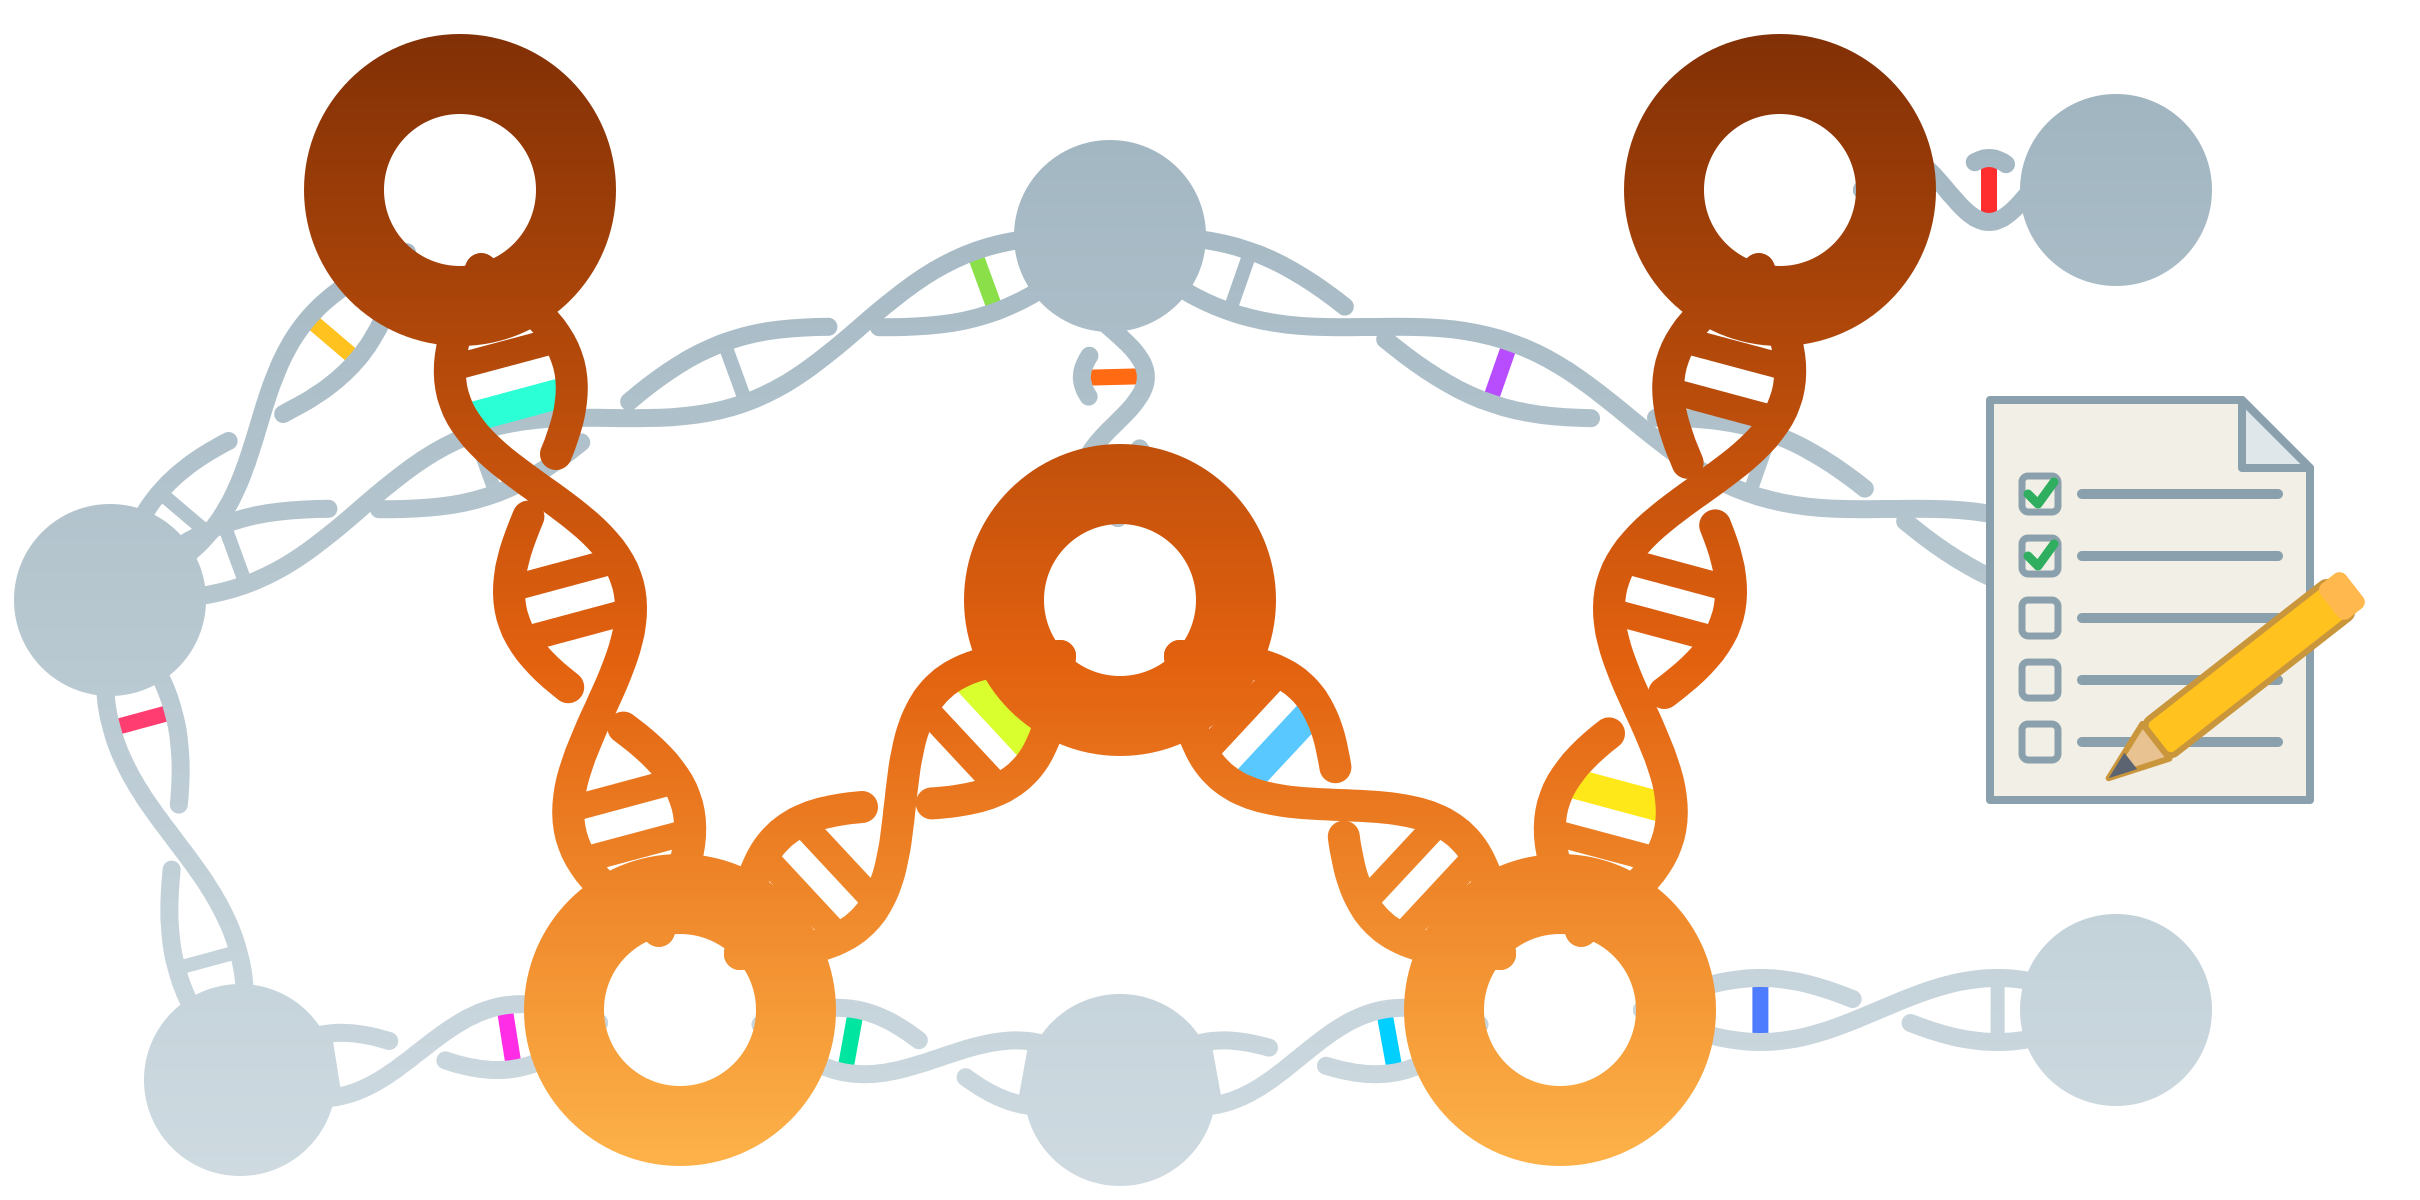
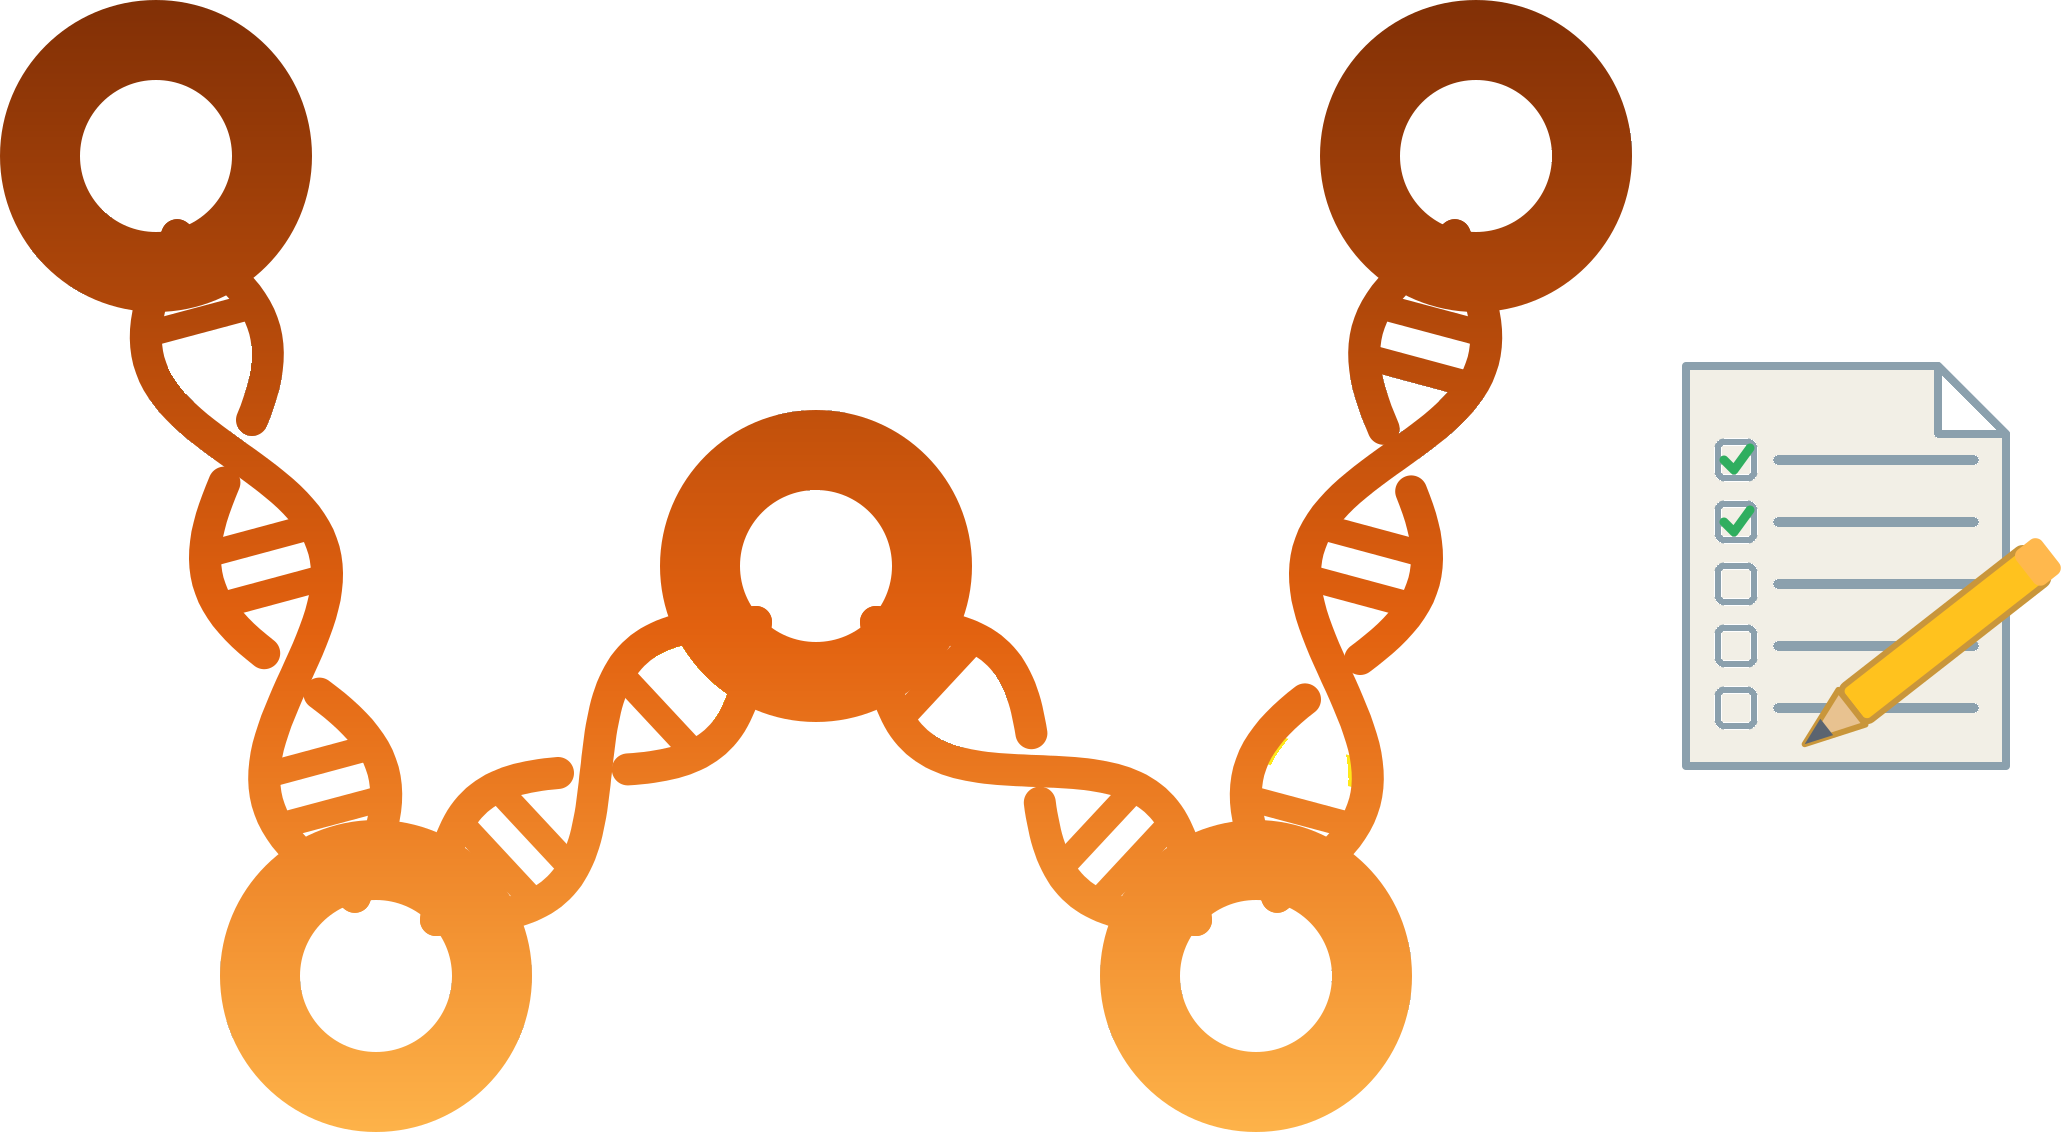
update

diff --git a/wodel-edu-eval.html b/wodel-edu-eval.html
@@ -33,7 +33,7 @@
 		gtag('config', 'UA-61793148-4');
 	</script>
     <section class="page-header">
-      <h1 class="project-name"><a href="https://gomezabajo.github.io/Wodel/wodel-edu.html" style="color: #FFFFEE;"><img src="images/wodelEdu.png" width="224" height="120"/><br />Wodel-EDU</a></h1>
+      <h1 class="project-name"><a href="https://gomezabajo.github.io/Wodel/wodel-edu.html" style="color: #FFFFEE;"><img src="images/wodelEdu.png" width="173" height="120"/><br />Wodel-EDU</a></h1>
       <h2 class="project-tagline">A Model-Driven Engineering Solution for Exercise Generation and Evaluation</h2>
       <a href="https://github.com/gomezabajo/Wodel" class="btn">View on GitHub</a>
 	  <a href="https://github.com/gomezabajo/Wodel/wiki/2.-Get-Started-with-Wodel-Edu" class="btn">Getting Started</a>

diff --git a/wodel-edu-samples.html b/wodel-edu-samples.html
@@ -33,7 +33,7 @@
 		gtag('config', 'UA-61793148-4');
 	</script>
     <section class="page-header">
-      <h1 class="project-name"><a href="https://gomezabajo.github.io/Wodel/wodel-edu.html" style="color: #FFFFEE;"><img src="images/wodelEdu.png" width="224" height="120"/><br />Wodel-EDU</a></h1>
+      <h1 class="project-name"><a href="https://gomezabajo.github.io/Wodel/wodel-edu.html" style="color: #FFFFEE;"><img src="images/wodelEdu.png" width="173" height="120"/><br />Wodel-EDU</a></h1>
       <h2 class="project-tagline">A Model-Driven Engineering Solution for Exercise Generation and Evaluation</h2>
       <a href="https://github.com/gomezabajo/Wodel" class="btn">View on GitHub</a>
 	  <a href="https://github.com/gomezabajo/Wodel/wiki/2.-Get-Started-with-Wodel-Edu" class="btn">Getting Started</a>

diff --git a/wodel-edu-sgame-eval.html b/wodel-edu-sgame-eval.html
@@ -33,7 +33,7 @@
 		gtag('config', 'UA-61793148-4');
 	</script>
     <section class="page-header">
-      <h1 class="project-name"><a href="https://gomezabajo.github.io/Wodel/wodel-edu.html" style="color: #FFFFEE;"><img src="images/wodelEdu.png" width="224" height="120"/><br />Wodel-EDU</a></h1>
+      <h1 class="project-name"><a href="https://gomezabajo.github.io/Wodel/wodel-edu.html" style="color: #FFFFEE;"><img src="images/wodelEdu.png" width="173" height="120"/><br />Wodel-EDU</a></h1>
       <h2 class="project-tagline">A Model-Driven Engineering Solution for Exercise Generation and Evaluation</h2>
       <a href="https://github.com/gomezabajo/Wodel" class="btn">View on GitHub</a>
 	  <a href="https://github.com/gomezabajo/Wodel/wiki/2.-Get-Started-with-Wodel-Edu" class="btn">Getting Started</a>

diff --git a/wodel-edu-tutorial.html b/wodel-edu-tutorial.html
@@ -21,7 +21,7 @@
 		gtag('config', 'UA-61793148-4');
 	</script>
     <section class="page-header">
-      <h1 class="project-name"><a href="https://gomezabajo.github.io/Wodel/wodel-edu.html" style="color: #FFFFEE;"><img src="images/wodelEdu.png" width="224" height="120"/><br />Wodel-EDU</a></h1>
+      <h1 class="project-name"><a href="https://gomezabajo.github.io/Wodel/wodel-edu.html" style="color: #FFFFEE;"><img src="images/wodelEdu.png" width="173" height="120"/><br />Wodel-EDU</a></h1>
       <h2 class="project-tagline">Tutorial: How to Write a Wodel-EDU Specification</h2>
       <a href="https://github.com/gomezabajo/Wodel" class="btn">View on GitHub</a>
 	  <a href="https://github.com/gomezabajo/Wodel/wiki/2.-Get-Started-with-Wodel-Edu" class="btn">Getting Started</a>

diff --git a/wodel-edu-video.html b/wodel-edu-video.html
@@ -33,7 +33,7 @@
 		gtag('config', 'UA-61793148-4');
 	</script>
     <section class="page-header">
-      <h1 class="project-name"><a href="https://gomezabajo.github.io/Wodel/wodel-edu.html" style="color: #FFFFEE;"><img src="images/wodelEdu.png" width="224" height="120"/><br />Wodel-EDU</a></h1>
+      <h1 class="project-name"><a href="https://gomezabajo.github.io/Wodel/wodel-edu.html" style="color: #FFFFEE;"><img src="images/wodelEdu.png" width="173" height="120"/><br />Wodel-EDU</a></h1>
       <h2 class="project-tagline">A Model-Driven Engineering Solution for Exercise Generation and Evaluation</h2>
       <a href="https://github.com/gomezabajo/Wodel" class="btn">View on GitHub</a>
 	  <a href="https://github.com/gomezabajo/Wodel/wiki/2.-Get-Started-with-Wodel-Edu" class="btn">Getting Started</a>

diff --git a/wodel-edu.html b/wodel-edu.html
@@ -34,7 +34,7 @@
 		gtag('config', 'UA-61793148-4');
 	</script>
     <section class="page-header">
-      <h1 class="project-name"><a href="https://gomezabajo.github.io/Wodel/wodel-edu.html" style="color: #FFFFEE;"><img src="images/wodelEdu.png" width="224" height="120"/><br />Wodel-EDU</a></h1>
+      <h1 class="project-name"><a href="https://gomezabajo.github.io/Wodel/wodel-edu.html" style="color: #FFFFEE;"><img src="images/wodelEdu.png" width="173" height="120"/><br />Wodel-EDU</a></h1>
       <h2 class="project-tagline">A Model-Driven Engineering Solution for Exercise Generation and Evaluation</h2>
       <a href="https://github.com/gomezabajo/Wodel" class="btn">View on GitHub</a>
 	  <a href="https://github.com/gomezabajo/Wodel/wiki/2.-Get-Started-with-Wodel-Edu" class="btn">Getting Started</a>